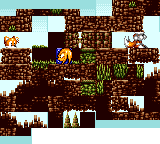
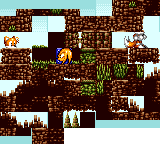
PM2 collision and object placement

Changed region(s): [[0.1875, 0.8889, 0.4062, 1.0]]

diff --git a/src/devmenu_screen.cpp b/src/devmenu_screen.cpp
@@ -9,6 +9,7 @@ void TA_DevmenuScreen::init()
     levels.emplace_back("maps/vt/vt1");
     levels.emplace_back("maps/vt/vt2");
     levels.emplace_back("maps/pm/pm1");
+    levels.emplace_back("maps/pm/pm2");
     levels.emplace_back("maps/pm/pm3");
     normalFont.load("fonts/devmenu.png", 7, 9);
     normalFont.setMapping(mapping);
